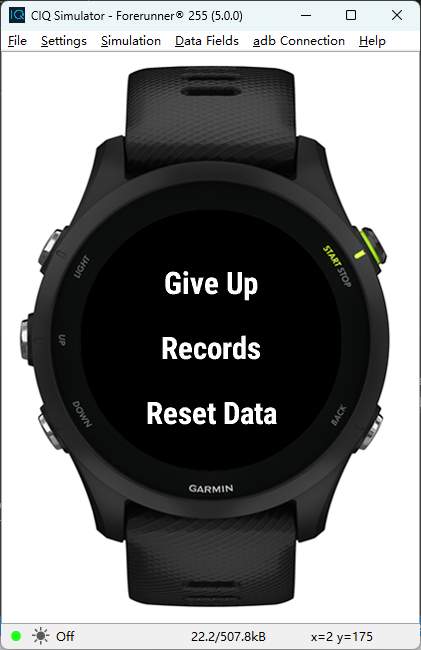
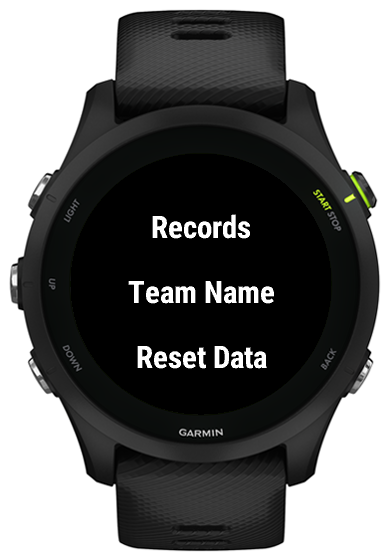
Update README.md

diff --git a/README.md b/README.md
@@ -13,7 +13,14 @@ I bought the Garmin Forerunner 255 to record my football data, but the original 
 
 I looked into it and realized I can develop an app to meet my needs.
 
-Main features:
+我为了记录踢球数据，买了佳明 Forerunner 255，原始的 App 不支持记录进球的时间和球队。
+
+我查看了一下，可以自己开发我需要的 App。
+
+## Main features:
+
+### 2024/10/17 v1.0
+
 1. User prompts
 2. Record the teams and times of goals
 3. View reports (currently can be optimized using ViewLoop)
@@ -21,24 +28,10 @@ Main features:
 
 The basic features have been implemented. 
 
-#3 can be optimized using ViewLoop.
+### 2024/10/21 v1.1
 
-and #4 can be implemented for individual deletion.
-
-I currently do not plan to continue the development, so I will open source it for everyone to reference.
-
-我为了记录踢球数据，买了佳明 Forerunner 255，原始的 App 不支持记录进球的时间和球队。
-我查看了一下，可以自己开发我需要的 App。
-
-主要功能：
-1. 用户提示
-2. 记录进球的球队和时间
-3. 可以查看报表
-4. 可以删除数据
-
-基本功能已经实现，#3 可以优化成使用 ViewLoop，#4 可以实现单独删除。
-
-目前不打算继续开发了，开源出来供大家参考。
+1. Show speed or start time
+2. Change team name
 
 ## Screenshots
 
@@ -48,8 +41,12 @@ I currently do not plan to continue the development, so I will open source it fo
 
 ![Menu](Screenshots/Menu.png)
 
+![SoccerMenu](Screenshots/SoccerMenu.png)
+
 ![Records](Screenshots/Records.png)
 
 ![Record](Screenshots/Record.png)
 
 ![Report](Screenshots/Report.png)
+
+![TeamName](Screenshots/TeamName.png)
